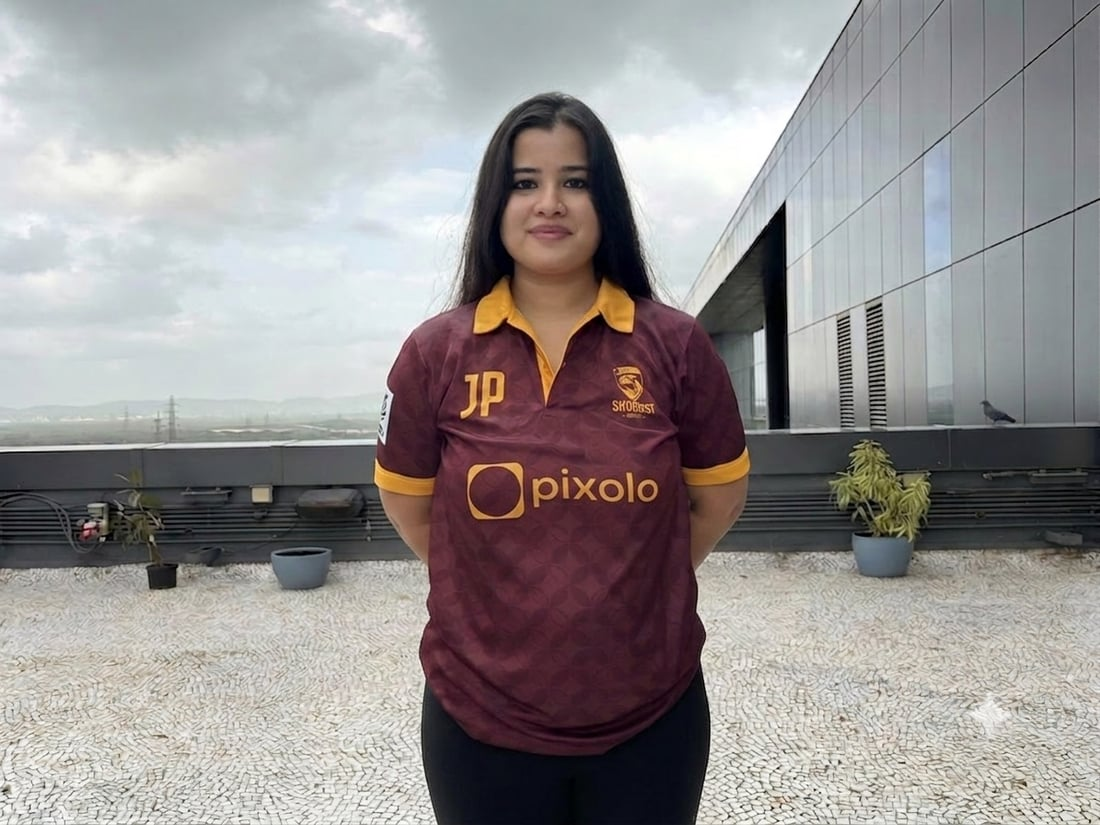
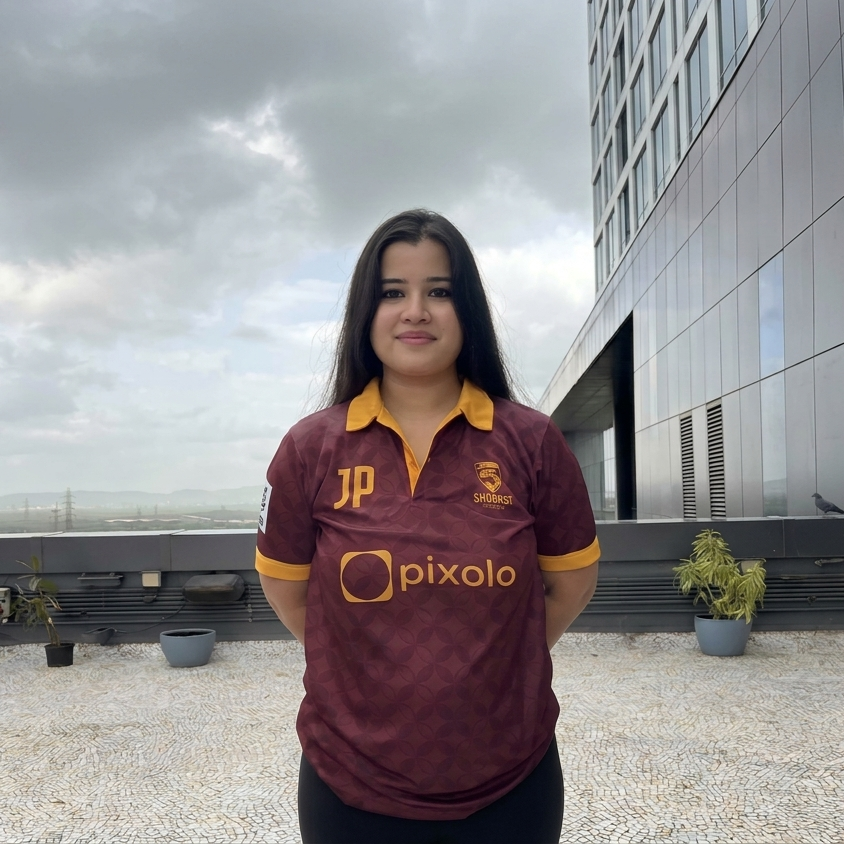
Polish team cards and update operations schema

diff --git a/apps/frontend/src/components/courses-card/courses-card.module.scss b/apps/frontend/src/components/courses-card/courses-card.module.scss
@@ -24,7 +24,7 @@
 		border-top-right-radius: var(--border-radius-medium);
 		padding: var(--padding-regular);
 		position: absolute;
-		max-width: 72%;
+		max-width: 75%;
 		left: 0;
 		bottom: 0;
 

diff --git a/docs/operations/DATABASE.md b/docs/operations/DATABASE.md
@@ -20,17 +20,25 @@ CREATE EXTENSION IF NOT EXISTS "pgcrypto";  -- for gen_random_uuid()
 
 ### `configs` - global settings (single row)
 
-Payment details shared across all centers. (No per-session rate here - pricing
-lives with the plans.)
+Global payment settings shared across the operations tooling. Payment can be via
+UPI or direct bank transfer, so this table must support both.
 
 ```sql
 CREATE TABLE configs (
-    id         UUID PRIMARY KEY DEFAULT gen_random_uuid(),
-    upi_id     TEXT NOT NULL,
-    payee_name TEXT NOT NULL,
-    created_at TIMESTAMPTZ NOT NULL DEFAULT now()
+    id                   UUID PRIMARY KEY DEFAULT gen_random_uuid(),
+    payment_mode         TEXT NOT NULL CHECK (payment_mode IN ('upi', 'bank')),
+    upi_id               TEXT,
+    payee_name           TEXT,
+    bank_account_name    TEXT,
+    bank_account_number  TEXT,
+    bank_ifsc_code       TEXT,
+    bank_name            TEXT,
+    bank_branch          TEXT,
+    created_at           TIMESTAMPTZ NOT NULL DEFAULT now()
 );
 ```
+
+> Depending on `payment_mode`, either the UPI fields or the bank fields are used.
 
 ### `centers`
 
@@ -44,109 +52,112 @@ CREATE TABLE centers (
 );
 ```
 
-> Timings are **not** on the center - a center can have several timings. They
-> live on `batches` below.
-
 ### `coaches`
 
-Coaches belong to a center. Used to fetch coach data (e.g. the "sender" of a fee
-structure, contact info).
+Coaches are shared academy resources and may go to multiple centers, so they do
+**not** belong directly to one center.
 
 ```sql
 CREATE TABLE coaches (
+    id           UUID PRIMARY KEY DEFAULT gen_random_uuid(),
+    name         TEXT NOT NULL,
+    phone        TEXT,
+    image_url    TEXT,
+    instagram_id TEXT,
+    is_active    BOOLEAN NOT NULL DEFAULT true,
+    created_at   TIMESTAMPTZ NOT NULL DEFAULT now()
+);
+```
+
+### `center_coaches` - coach assignment per center
+
+Join table because a coach can be assigned to multiple centers.
+
+```sql
+CREATE TABLE center_coaches (
     id         UUID PRIMARY KEY DEFAULT gen_random_uuid(),
     center_id  UUID NOT NULL REFERENCES centers(id),
-    name       TEXT NOT NULL,
-    phone      TEXT,
-    image_url  TEXT,
+    coach_id   UUID NOT NULL REFERENCES coaches(id),
     is_active  BOOLEAN NOT NULL DEFAULT true,
-    created_at TIMESTAMPTZ NOT NULL DEFAULT now()
+    UNIQUE (center_id, coach_id)
 );
 ```
 
 ### `batches` - a scheduled group within a center
 
-A center has multiple batches, each with its own timing. This is where timings
-live.
+Each batch belongs to a center and represents a specific program/group (for
+example `Under-8`, `Under-10`, `Evening Grassroots`, etc.). Timings do **not**
+live directly on the batch because each weekday may have a different time.
 
 ```sql
 CREATE TABLE batches (
     id         UUID PRIMARY KEY DEFAULT gen_random_uuid(),
     center_id  UUID NOT NULL REFERENCES centers(id),
-    name       TEXT NOT NULL,        -- e.g. "Evening"
-    start_time TIME,
-    end_time   TIME,
+    name       TEXT NOT NULL,
     is_active  BOOLEAN NOT NULL DEFAULT true,
     created_at TIMESTAMPTZ NOT NULL DEFAULT now()
 );
 ```
 
-### `batch_days` - session weekdays per batch
+### `batch_timings` - weekday + time slots per batch
 
-The session days are **not** fixed to Mon/Wed/Fri - they vary by center/batch, so
-they come from the database.
+Each row represents one meeting slot for one weekday. Monday can be `6-7`,
+Wednesday can be `7-8`, etc.
 
 ```sql
-CREATE TABLE batch_days (
+CREATE TABLE batch_timings (
     id          UUID PRIMARY KEY DEFAULT gen_random_uuid(),
     batch_id    UUID NOT NULL REFERENCES batches(id),
-    day_of_week SMALLINT NOT NULL CHECK (day_of_week BETWEEN 0 AND 6),  -- 0=Sun … 6=Sat
-    UNIQUE (batch_id, day_of_week)
+    day_of_week SMALLINT NOT NULL CHECK (day_of_week BETWEEN 0 AND 6),  -- 0=Sun ... 6=Sat
+    start_time  TIME NOT NULL,
+    end_time    TIME NOT NULL,
+    UNIQUE (batch_id, day_of_week, start_time, end_time)
 );
 ```
 
-### `plans` - plan templates
+### `plans` - pricing per batch
 
-Attendance/duration templates. Metadata only; prices are per center (below).
+Plans now belong directly to a batch. A batch carries its own pricing, so there
+is no separate `center_plans` table. This allows `Under-8` and `Under-10` to
+have different plans even inside the same center.
 
 ```sql
 CREATE TABLE plans (
-    id                 UUID PRIMARY KEY DEFAULT gen_random_uuid(),
-    name               TEXT NOT NULL,      -- "1 Month 3-Day", "6 Month", "1 Month 2-Day"
-    duration_months    SMALLINT NOT NULL,
-    days_per_week      SMALLINT NOT NULL,  -- e.g. 3 or 2
-    sessions_per_month SMALLINT,           -- NULL for multi-month plans
-    is_active          BOOLEAN NOT NULL DEFAULT true,
-    created_at         TIMESTAMPTZ NOT NULL DEFAULT now()
-);
-```
-
-### `center_plans` - per-center pricing
-
-Prices differ per center. **Per-session price is stored here**, so partial months
-use a stored value - no rate calculation or rounding at runtime.
-
-```sql
-CREATE TABLE center_plans (
     id                UUID PRIMARY KEY DEFAULT gen_random_uuid(),
-    center_id         UUID NOT NULL REFERENCES centers(id),
-    plan_id           UUID NOT NULL REFERENCES plans(id),
+    batch_id          UUID NOT NULL REFERENCES batches(id),
+    name              TEXT NOT NULL,      -- e.g. "1 Month 3-Day", "3 Month 2-Day"
+    duration_months   SMALLINT NOT NULL,
+    days_per_week     SMALLINT NOT NULL,  -- e.g. 3 or 2
     price             INTEGER NOT NULL,   -- flat plan price (rupees)
-    per_session_price INTEGER NOT NULL,   -- used for partial/pro-rata months (rupees)
+    per_session_price INTEGER NOT NULL,   -- used for partial/pro-rata calculation
     is_active         BOOLEAN NOT NULL DEFAULT true,
-    UNIQUE (center_id, plan_id)
+    created_at        TIMESTAMPTZ NOT NULL DEFAULT now()
 );
 ```
 
 ## Relationships
 
 ```
-centers 1───∞ coaches
-centers 1───∞ batches 1───∞ batch_days
-centers 1───∞ center_plans ∞───1 plans
+centers 1───∞ center_coaches ∞───1 coaches
+centers 1───∞ batches 1───∞ batch_timings
+batches 1───∞ plans
 configs (single row, standalone)
 ```
 
 ## Notes & open design points
 
-- **Per-session price** lives on `center_plans` (per center). This removes the
-  fixed ₹285 rate and all rounding from the app.
-- **Days** are modelled at the **batch** level (`batch_days`). Confirm whether
-  days belong to a batch or directly to a center - if the latter, move
-  `batch_days` → `center_days`.
-- **2-day plans:** a 2-day student attends 2 of a batch's days. How the specific
-  2 days are chosen (fixed vs. student's choice) affects partial-month counting -
-  to be confirmed.
+- **Payment config** now supports both `upi` and `bank` mode.
+- **Coach assignment** is many-to-many across centers, so `coaches.center_id`
+  has been removed.
+- **Instagram ID** lives on `coaches`.
+- **Timings** are stored per weekday inside `batch_timings`, because every day
+  may have a different time.
+- **Per-session price** lives directly on `plans`, along with all pricing.
+- **No `center_plans` table**: plans now attach to `batches`, not centers.
+- **2-day plans:** a 2-day student attends 2 of a batch's available weekdays.
+  How the exact days are chosen (fixed vs. student's choice) still affects
+  partial-month counting.
 - **No history tables** (quotes/receipts/students) in this phase.
-- Add indexes on foreign keys (`coaches.center_id`, `batches.center_id`,
-  `batch_days.batch_id`, `center_plans.center_id`, `center_plans.plan_id`).
+- Add indexes on foreign keys (`center_coaches.center_id`,
+  `center_coaches.coach_id`, `batches.center_id`, `batch_timings.batch_id`,
+  `plans.batch_id`).
